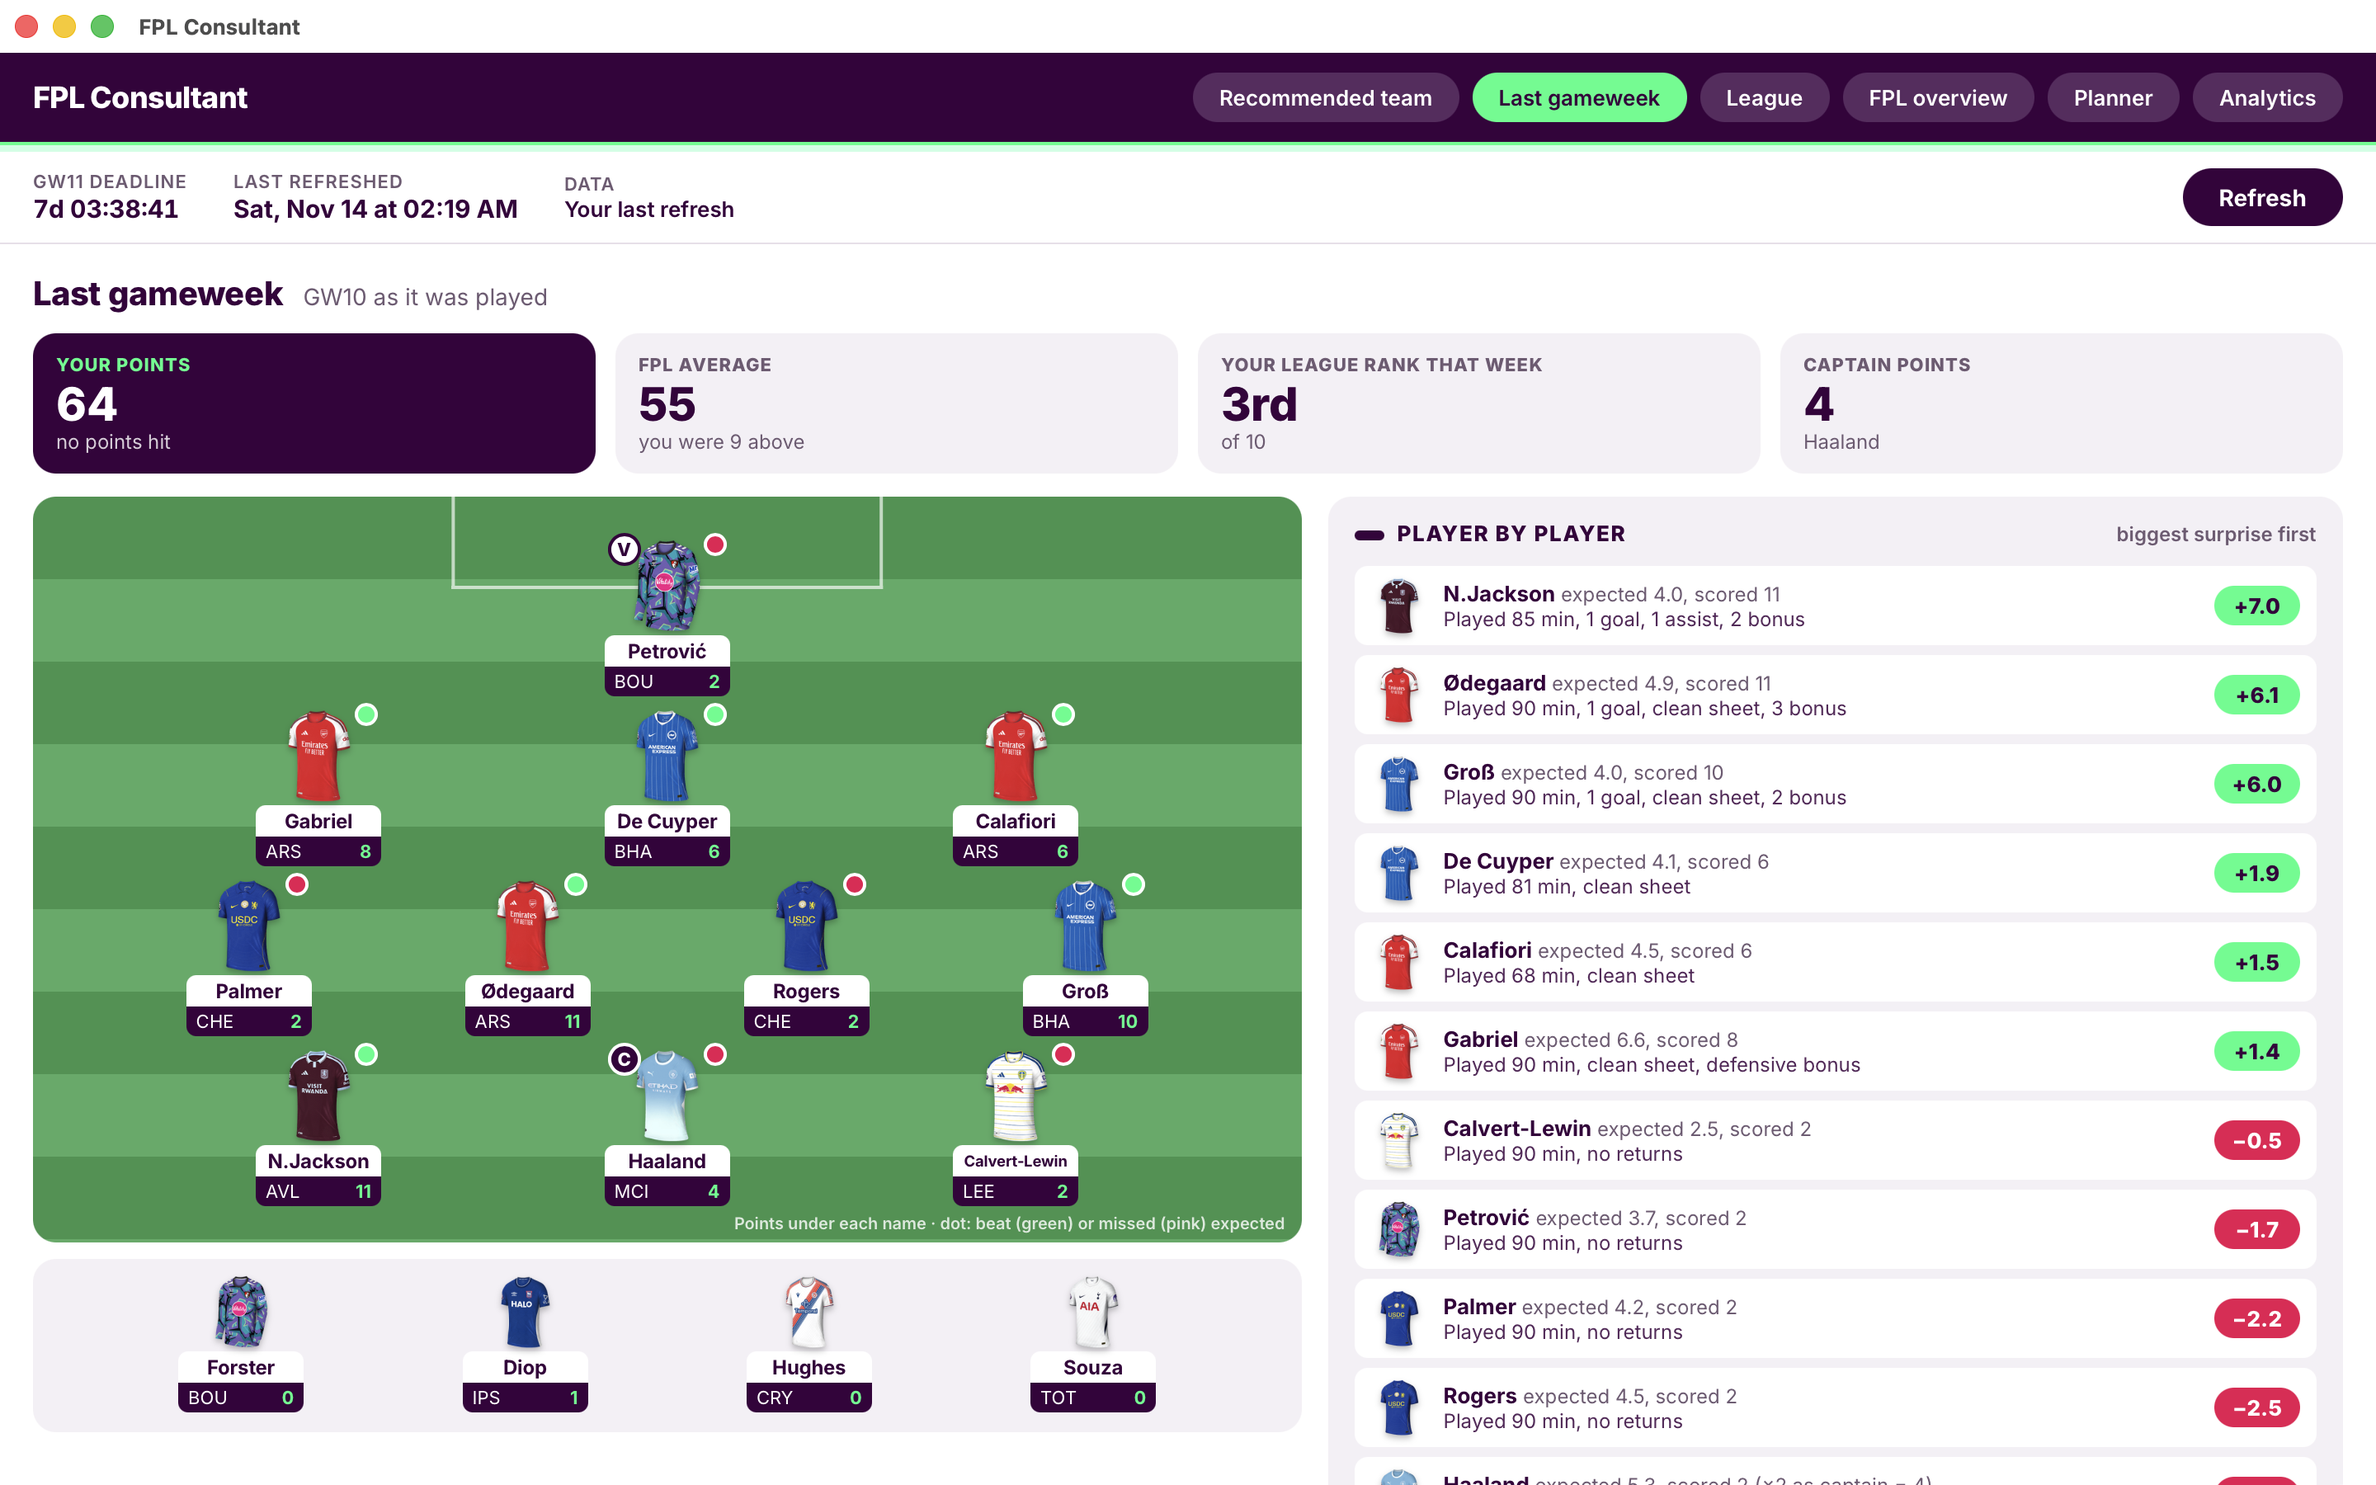
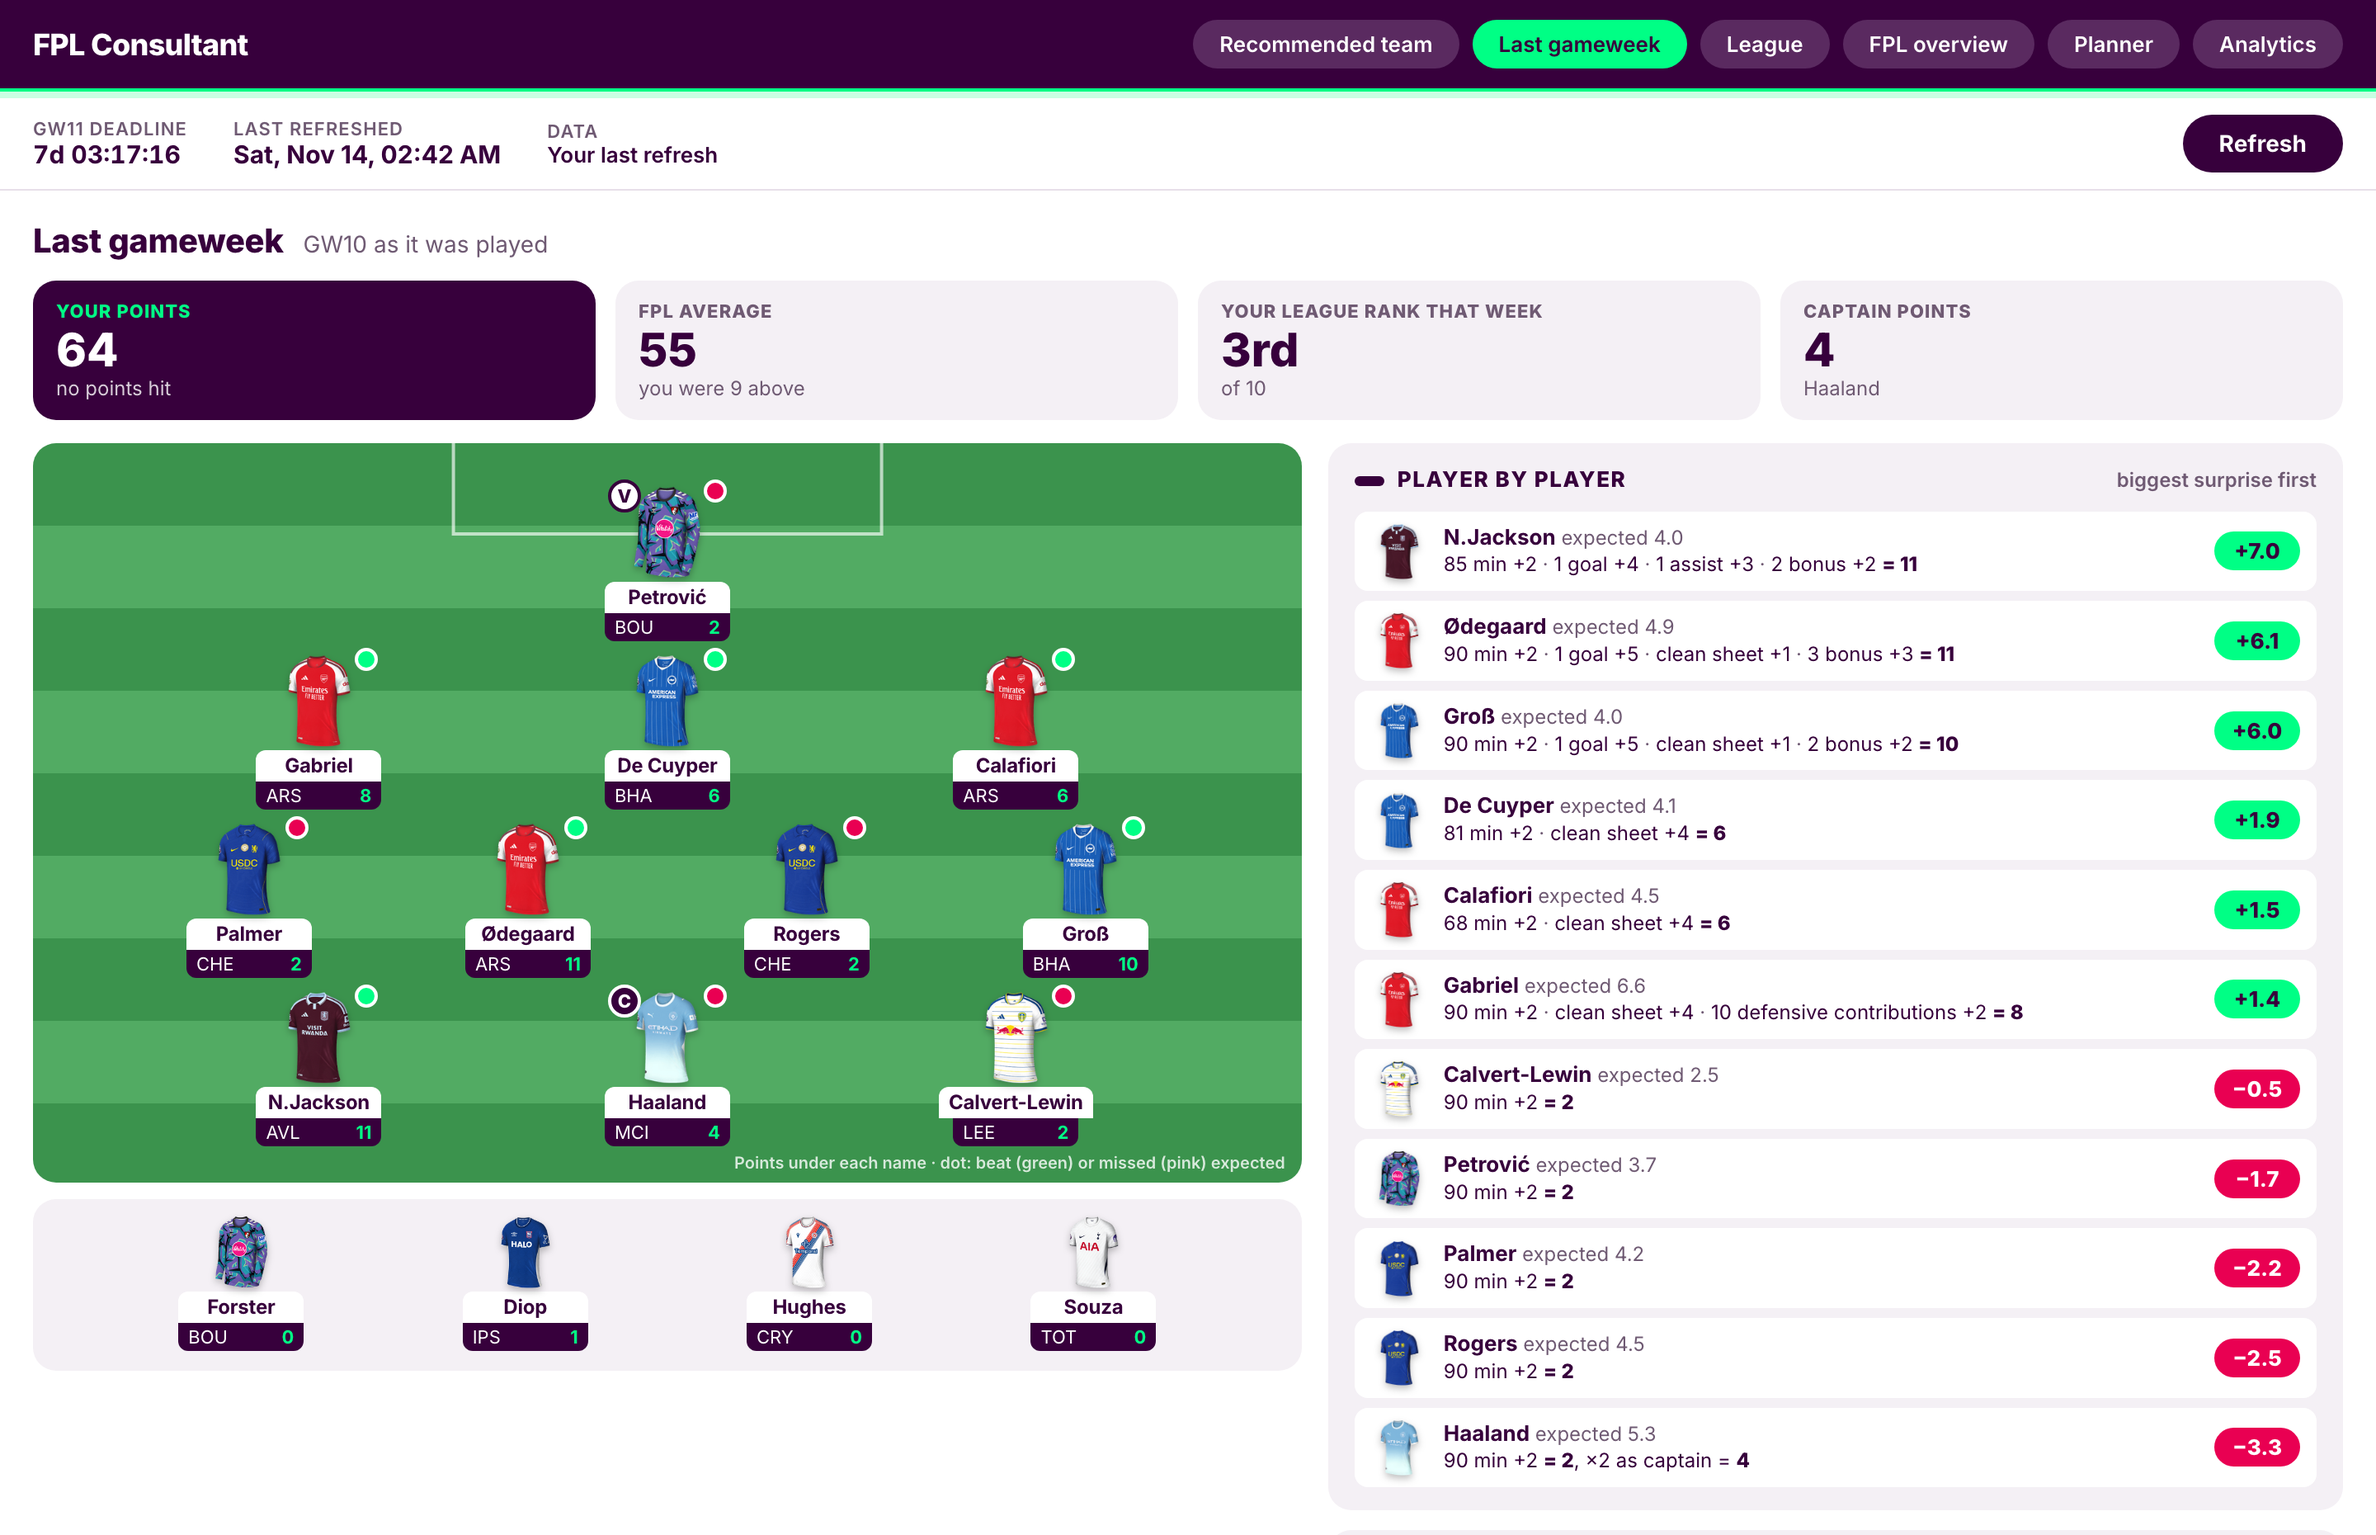
App: points breakdown rows on Last gameweek; long names fit on tiles
Breakdown line '85 min +2 · 1 goal +4 · ... = 11' (negatives pink, total
bold, captain step, one line per match, wraps between items). PlayerTile
labels may grow wider than the tile so names up to 13 characters keep the
normal size; phone tiles 86px.

diff --git a/app/src/pages/LastGameweekPage.tsx b/app/src/pages/LastGameweekPage.tsx
@@ -1,3 +1,4 @@
+import { Fragment } from "react";
 import type { Latest } from "../data";
 import { Card } from "../components/Card";
 import { Bench, Pitch } from "../components/Pitch";
@@ -52,9 +53,57 @@ function Stat({ label, value, sub, dark }: { label: string; value: string; sub?:
   );
 }
 
+// FPL's own scoring items for one player, e.g.
+// "85 min +2 · 1 goal +4 · 1 assist +3 · 2 bonus +2 = 11", one line per
+// match (double gameweeks), then the captain step if he had the armband.
+function Breakdown({ c }: { c: Raw }) {
+  const matches: Raw[] = c.matches ?? [];
+  const captainStep =
+    c.multiplier > 1 ? (
+      <>
+        , ×{c.multiplier} as captain = <b>{c.counted_points}</b>
+      </>
+    ) : null;
+  if (!matches.length) {
+    return (
+      <div className="lg-break">
+        <span className="lg-item">Didn't play</span> <b>= 0</b>
+        {captainStep}
+      </div>
+    );
+  }
+  const many = matches.length > 1;
+  return (
+    <div className="lg-break">
+      {matches.map((m, i) => (
+        <div key={i} className="lg-match">
+          {many && <span className="lg-match-no">Match {i + 1}: </span>}
+          {m.items.map((it: Raw, j: number) => (
+            // the separator sits outside the no-wrap item, so a long line
+            // wraps between items, never inside one
+            <Fragment key={j}>
+              {j > 0 && <span className="lg-sep"> · </span>}
+              <span className={`lg-item${it.points < 0 ? " neg" : ""}`}>
+                {it.label} {it.points > 0 ? "+" : "−"}
+                {Math.abs(it.points)}
+              </span>
+            </Fragment>
+          ))}{" "}
+          <b>= {m.total}</b>
+          {!many && i === matches.length - 1 && captainStep}
+        </div>
+      ))}
+      {many && (
+        <div className="lg-match">
+          Total <b>= {c.points}</b>
+          {captainStep}
+        </div>
+      )}
+    </div>
+  );
+}
+
 function Row({ c }: { c: Raw }) {
-  const doubled = c.multiplier > 1;
-  const scored = doubled ? `scored ${c.points} (×${c.multiplier} as captain = ${c.counted_points})` : `scored ${c.points}`;
   const surprise = c.surprise;
   return (
     <div className="lg-row">
@@ -64,12 +113,12 @@ function Row({ c }: { c: Raw }) {
           <b>{c.web_name}</b>
           <span className="muted small">
             {" "}
-            {c.expected != null ? `expected ${c.expected.toFixed(1)}, ${scored}` : scored}
+            {c.expected != null ? `expected ${c.expected.toFixed(1)}` : ""}
             {c.subbed_on ? " · came in from the bench" : ""}
             {c.subbed_off ? " · replaced from the bench" : ""}
           </span>
         </div>
-        <div className="lg-row-reason">{c.reason}</div>
+        <Breakdown c={c} />
       </div>
       {surprise != null && (
         <span className={`lg-diff ${surprise >= 0 ? "beat" : "missed"}`}>

diff --git a/app/src/theme/theme.css b/app/src/theme/theme.css
@@ -111,6 +111,7 @@ h1, h2 { margin: 0; letter-spacing: -0.01em; }
   background: var(--white); color: var(--purple); font-weight: 700; letter-spacing: -0.01em;
   font-size: calc(var(--name-size) * var(--name-scale, 1)); line-height: 15px;
   white-space: nowrap; overflow: hidden; text-align: center; min-width: 76px;
+  max-width: 108px; /* may grow a little wider than the 92px tile before shrinking */
 }
 .tile-meta {
   display: flex; justify-content: space-between; gap: 6px; min-width: 76px; max-width: 100%;
@@ -324,9 +325,15 @@ h1, h2 { margin: 0; letter-spacing: -0.01em; }
 .lg-left .bench { margin-top: 10px; }
 .lg-right { display: flex; flex-direction: column; gap: 12px; }
 .lg-list { display: flex; flex-direction: column; gap: 6px; }
+.lg-row-text { min-width: 0; }
 .lg-row { display: grid; grid-template-columns: 34px minmax(0, 1fr) auto; gap: 10px; align-items: center; background: var(--white); border-radius: var(--radius-sm); padding: 7px 10px; }
 .lg-row-name { font-size: 13px; line-height: 1.3; }
-.lg-row-reason { font-size: 12px; color: var(--purple); opacity: 0.85; }
+.lg-break { font-size: 12px; line-height: 1.45; color: var(--purple); }
+.lg-item { white-space: nowrap; }       /* wrap between items, never inside one */
+.lg-item.neg { color: var(--pink); font-weight: 600; }
+.lg-sep { color: var(--text-muted); }
+.lg-break b { font-weight: 800; white-space: nowrap; }
+.lg-match-no { font-weight: 700; color: var(--text-muted); }
 .lg-diff { border-radius: var(--radius-pill); padding: 4px 10px; font-size: 13px; font-weight: 800; min-width: 52px; text-align: center; }
 .lg-diff.beat { background: var(--neon); color: var(--purple); }
 .lg-diff.missed { background: var(--pink); color: var(--white); }
@@ -385,9 +392,9 @@ h1, h2 { margin: 0; letter-spacing: -0.01em; }
   }
   .page-title h1 { font-size: 19px; }
   .pitch { min-height: 420px; padding: 30px 0 22px; }
-  .player-tile { width: 80px; }
+  .player-tile { width: 86px; }
   .tile-name, .tile-meta { min-width: 72px; }
-  .tile-name { --name-size: 11px; padding: 2px 4px; line-height: 14px; }
+  .tile-name { --name-size: 11px; padding: 2px 4px; line-height: 14px; max-width: 94px; }
   .tile-meta { font-size: 9.5px; white-space: nowrap; padding: 2px 4px; gap: 3px; }
   .player-tile .shirt { width: 46px !important; height: 46px !important; }
   .bench .player-tile .shirt { width: 38px !important; height: 38px !important; }

diff --git a/app/src/components/PlayerTile.tsx b/app/src/components/PlayerTile.tsx
@@ -4,7 +4,10 @@ import type { PlayerView } from "../model/team";
 
 // Names longer than this many characters shrink to fit instead of being
 // cut off; below MIN_SCALE they'd be unreadable, so only then abbreviate.
-const FIT_CHARS = 10;
+// The label may grow a little wider than the tile (CSS max-width), so
+// names up to 13 characters (e.g. "Calvert-Lewin") fit at the normal size;
+// longer ones shrink, as a last resort.
+const FIT_CHARS = 13;
 const MIN_SCALE = 0.62; // ~7.5px on laptop -- fits FPL's longest usual web_names, e.g. "Alexander-Arnold"
 
 /** FPL's web_name, shrunk to fit the label (never truncated with "..."). */
